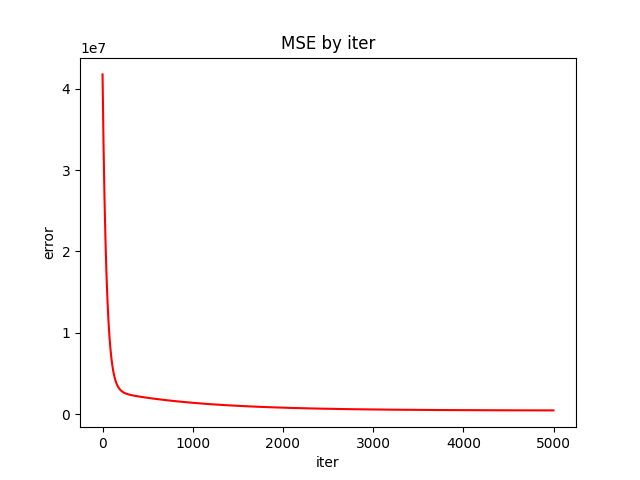
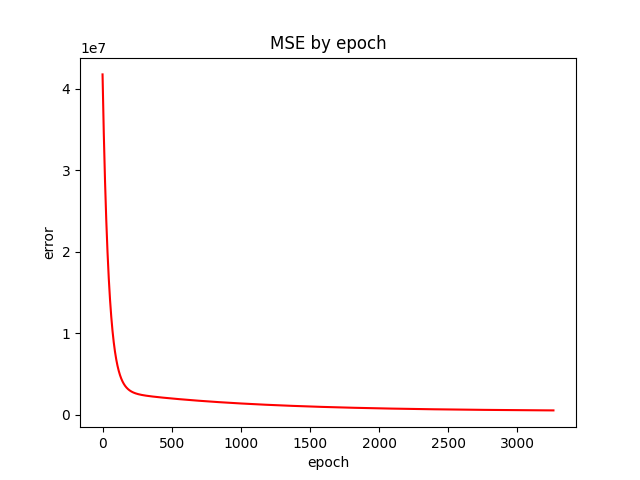
smth fix

diff --git a/train_model.py b/train_model.py
@@ -71,34 +71,27 @@ def load_model(path):
     return w
 
 
-
 def train(path, lr=0.01, epochs=5000,
           path_weight='weights.txt', show_results=False,
           early_stopping=100.0):
-    print(path, epochs, early_stopping, path_weight, lr, show_results)
+    print(f" path: {path}\n epochs: {epochs}\n "
+          f"early_stopping: {early_stopping}\n path_weight: {path_weight}\n "
+          f"lr: {lr} \n show_results: {show_results}")
     df = pd.read_csv(path)
     x_data = df.iloc[:, 0].values
     y_data = df.iloc[:, 1].values
-    # plot(x_data, y_data)
 
-    # x = StandartScaler(x_data)
     x = MinMaxScaler(x_data)
-
-    # y = StandartScaler(y_data)
-    # y = MinMaxScaler(y_data)
-
     w = np.zeros(2)
-
 
     mse = []
     mae = []
-    for _ in range(epochs):
+    for i in range(epochs):
         y_pred = predict(w, x)
         w = gradient_descent(y_pred, y_data, x, lr, w)
-        if len(mse) > 10:
-            print(mse[-1], mean_square_error(y_data, y_pred), early_stopping)
         if len(mse) > 10 and (mse[-1] - mean_square_error(y_data, y_pred)) < early_stopping:
-            print(mse[-1], mean_square_error(y_data, y_pred), early_stopping)
+            # print(mse[-1], mean_square_error(y_data, y_pred), early_stopping)
+            epochs = i
             break
         mse.append(mean_square_error(y_data, y_pred))
         mae.append(mean_absolute_error(y_data, y_pred))
@@ -111,24 +104,23 @@ def train(path, lr=0.01, epochs=5000,
         plt.title('MSE by epoch')
         plt.xlabel('epoch')
         plt.ylabel('error')
-        # plt.savefig('mse.png')
+        plt.savefig('mse.png')
         plt.show()
-
 
         """MAE"""
         plt.plot(range(len(mae)), mae, color='green')
         plt.title('MAE by epoch')
         plt.xlabel('epoch')
         plt.ylabel('error')
-        # plt.savefig('mae.png')
+        plt.savefig('mae.png')
         plt.show()
-
 
         """show result of linear regression"""
         plt.scatter(x_data, y_data, label='real', marker='*', color='green')
         plt.plot(x_data, y_pred, label='predict')
         plt.legend()
-        plt.title(f'Result of linear regression\n lr={lr}; epochs={epochs}')
+        plt.title(
+            f'Result of linear regression\n lr={lr}; epochs={epochs}\n mse={round(mse[-1], 2)} mae={round(mae[-1], 2)}')
         plt.xlabel('km')
         plt.ylabel('price')
         plt.savefig('result.png')
